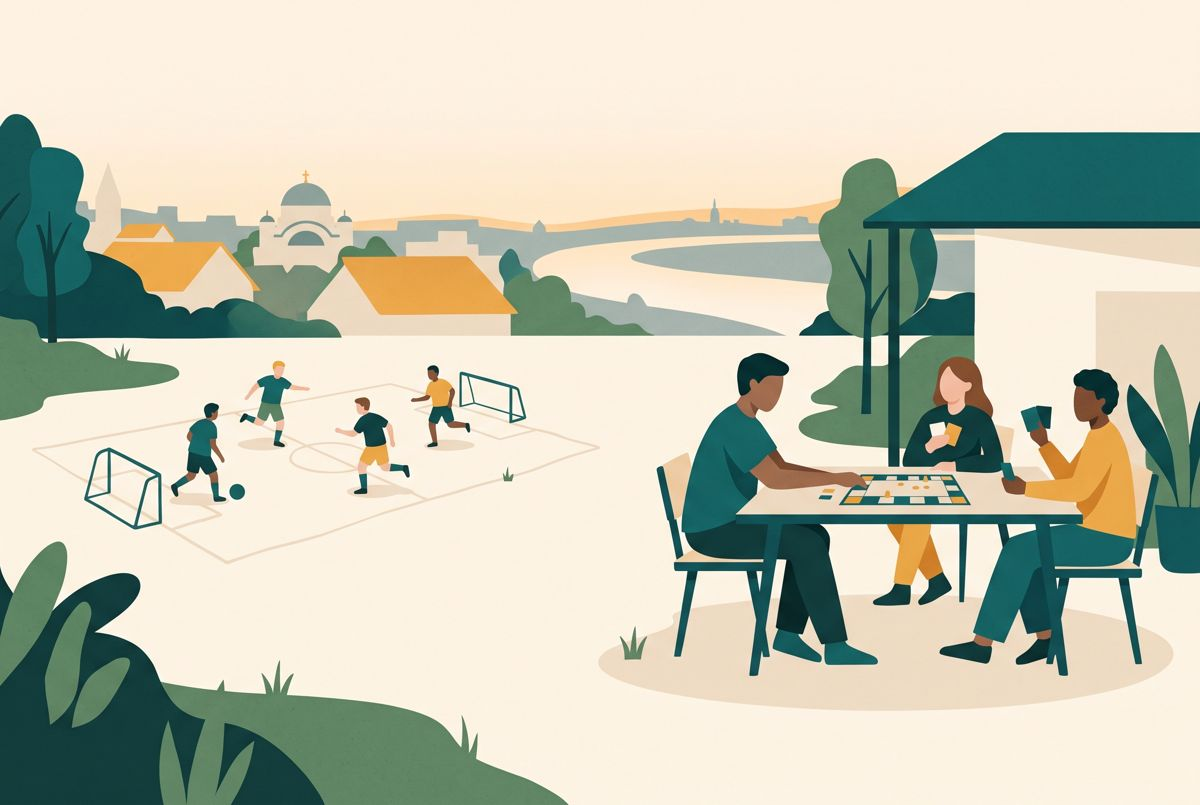
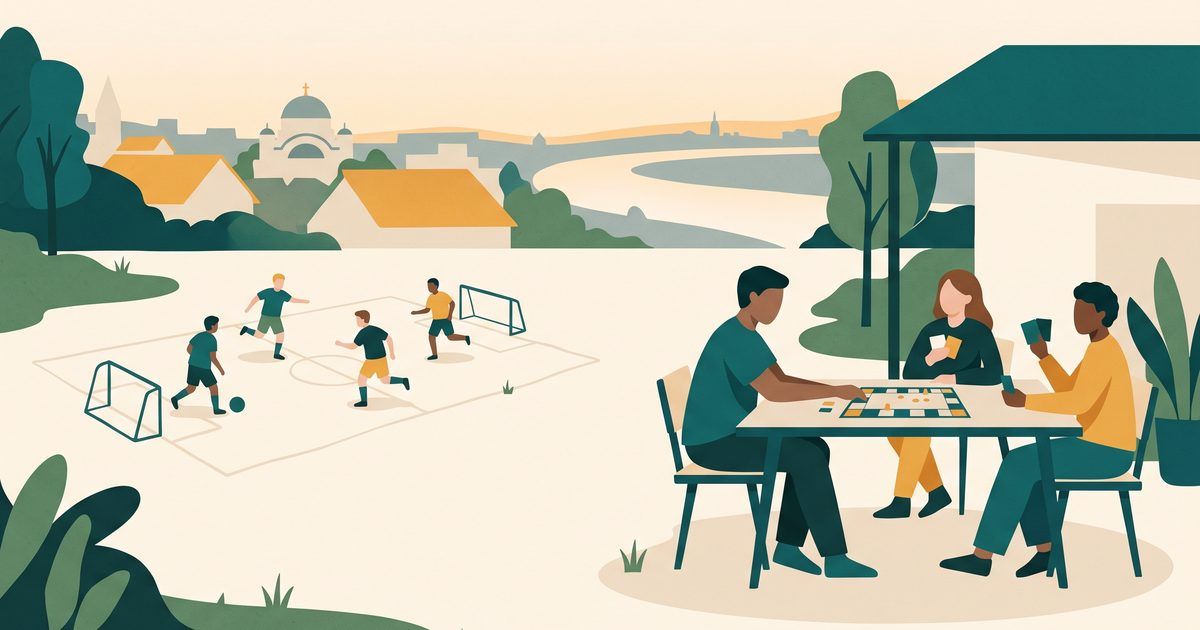
snova.world: 2026-10-17 11:15

diff --git a/serbia/leaders/index.html b/serbia/leaders/index.html
@@ -7,7 +7,9 @@
 <meta property="og:title" content="Снова — сообщество лидеров эмигрантских сообществ">
 <meta property="og:description" content="Для лидеров русскоязычных сообществ Сербии: идея, как это работает, план и вступление.">
 <meta property="og:url" content="https://snova.world/serbia/leaders/">
-<meta property="og:image" content="https://snova.world/serbia/media/pavel.jpg">
+<meta property="og:image" content="https://snova.world/serbia/media/types/og-leaders.jpg">
+<meta property="og:image:width" content="1200">
+<meta property="og:image:height" content="630">
 <title>Снова для лидеров сообществ · Сербия</title>
 <meta name="description" content="Снова объединяет лидеров эмигрантских сообществ в Сербии, чтобы приехавшим было проще адаптироваться. Первая встреча лидеров — 17 октября 2026, Белград.">
 <link rel="stylesheet" href="https://fonts.googleapis.com/css2?family=Geologica:wght@500;700;800;900&amp;family=Golos+Text:wght@400;500;600&amp;display=swap">

diff --git a/serbia/index.html b/serbia/index.html
@@ -9,6 +9,9 @@
 <meta property="og:description" content="Карта русскоязычных сообществ Сербии и лидеры, которые их ведут.">
 <meta property="og:url" content="https://snova.world/serbia/">
 <meta property="og:image" content="https://snova.world/serbia/media/types/og.jpg">
+<meta property="og:image:width" content="1200">
+<meta property="og:image:height" content="630">
+<meta property="og:site_name" content="Снова">
 <title>Сообщества Сербии</title>
 <link rel="preconnect" href="https://fonts.googleapis.com"><link rel="preconnect" href="https://fonts.gstatic.com" crossorigin>
 <link rel="stylesheet" href="https://fonts.googleapis.com/css2?family=Geologica:wght@400;600;700;900&family=Golos+Text:wght@400;500;600&display=swap">
